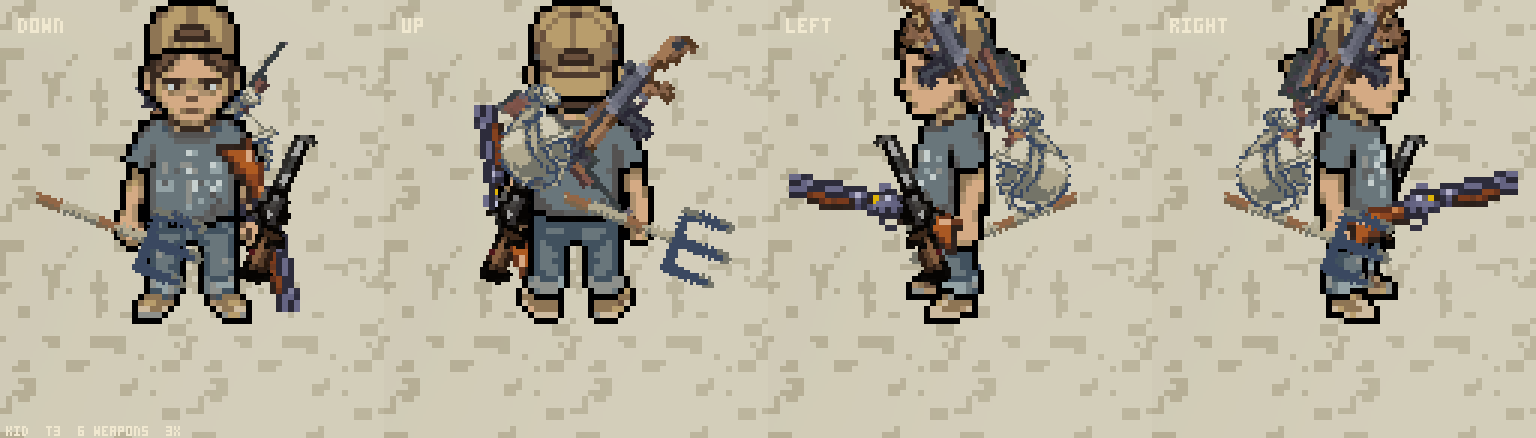
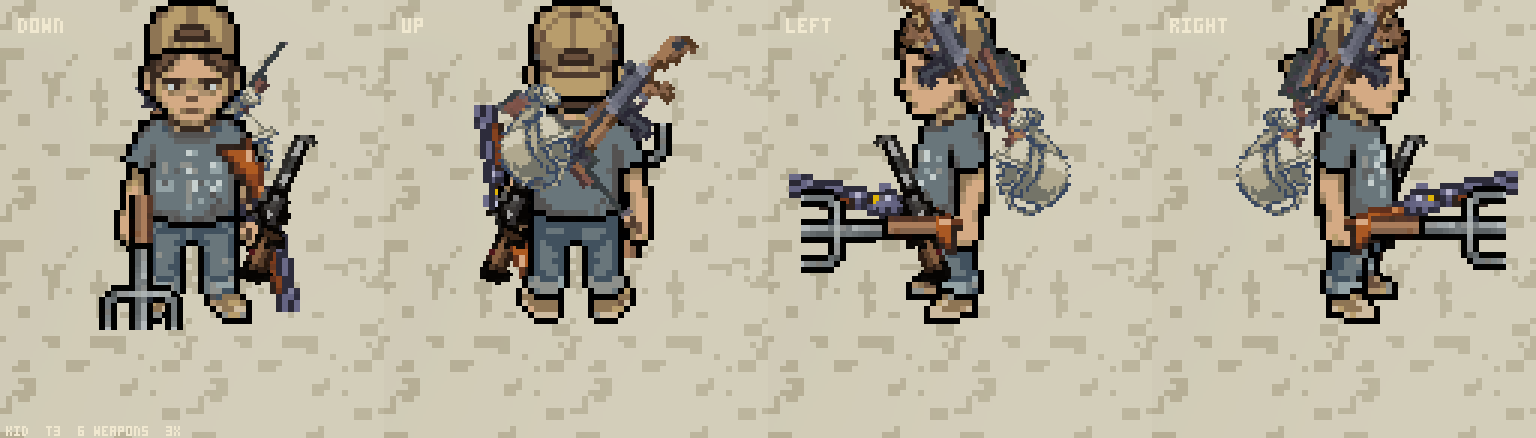
The pitchfork is held, always: an offhand anchor on every class
Second playtest (The Widow): the fork snapped between her hands and a slung
diagonal on her back every time the rifle took the hand back. A weapon that
stabs where you face has no resting pose. `carryHeld` on the pitchfork,
written `offhand` by assignCarrySlots before any other rule; isHeldSlot()
is the one answer both painters use. The Hand's dead classSlot retired.
Six facings sheets regenerated; two tests; 266 green. NOTES has the idle
probe and which dial the owner's end wave moves.

diff --git a/src/content/index.ts b/src/content/index.ts
@@ -723,7 +723,7 @@ export const ALL_ENEMY_IDS = Object.keys(ENEMIES)
  * No weapon names them and the assignment loop cannot reach them.
  */
 export type CarrySlot =
-  | 'hand' | 'back' | 'backX' | 'shoulder' | 'hipR' | 'hipL' | 'beltR' | 'beltL'
+  | 'hand' | 'offhand' | 'back' | 'backX' | 'shoulder' | 'hipR' | 'hipL' | 'beltR' | 'beltL'
 
 /** Where a slot sits for one facing. See tuning.json -> carry. */
 export interface CarryAnchor {
@@ -865,6 +865,40 @@ export function carryAimsOf(weaponId: string): boolean {
   return WEAPONS[weaponId]?.carryAim === true
 }
 
+/**
+ * True when the weapon is ALWAYS drawn as held: at the `hand` anchor, pointed
+ * where he faces, lunging when it fires, on every class and whatever else he
+ * owns.
+ *
+ * The pitchfork. The hand slot belongs to whichever weapon fired last, and on
+ * The Hand that is the fork often enough that it reads as his: a clear thrust
+ * left, right, up, down. Give the same fork to The Widow and her rifle takes
+ * the hand back between every jab, so the fork snapped between her hands and
+ * a slung diagonal on her back several times a second -- the owner's words
+ * were "arbitrarily spinning around". A weapon that stabs where you face has
+ * no resting pose worth drawing; it is held or it is nothing.
+ *
+ * It never competes for the hand and never claims a resting slot, so the
+ * weapon that fired last still goes to his hands beside it, and the five
+ * anchors are left to the guns. It draws at `offhand`, a second held anchor a
+ * few pixels off `hand` -- the facings sheet showed why: the tool aims every
+ * weapon along the facing, the rifle and the fork landed on the same pixels,
+ * and the rifle was simply gone under the fork. In play the rifle tracks its
+ * target, so that happens whenever the target is where she faces.
+ */
+export function carryHeldOf(weaponId: string): boolean {
+  return WEAPONS[weaponId]?.carryHeld === true
+}
+
+/**
+ * Is this anchor one he HOLDS? Held weapons aim, kick and lunge; resting ones
+ * hang at their slot's angle. Both painters ask this rather than comparing
+ * against `'hand'` themselves, so a second held anchor cannot split them.
+ */
+export function isHeldSlot(slot: CarrySlot | null | undefined): boolean {
+  return slot === 'hand' || slot === 'offhand'
+}
+
 /** Extra rotation on top of the slot's resting angle, radians. */
 export function carryAngleOf(weaponId: string): number {
   const a = WEAPONS[weaponId]?.carryAngle
@@ -1002,6 +1036,11 @@ const CARRY_MUZZLE_FALLBACK =
  *  4. `hand` is never a resting destination: it is not in `fallbackOrder` at
  *     all, so a weapon that declares `hand` and is not the active one falls to
  *     the front of the order instead of stacking on the held weapon.
+ *  0. Before any of that: a weapon that declares `carryHeld` is in his hands
+ *     ALWAYS. It is written `offhand` and skipped by every rule below -- it
+ *     does not win the hand by firing, it does not take a resting slot, and it
+ *     does not stop the last-fired weapon being held beside it. See
+ *     `carryHeldOf`.
  *
  * Six inventory slots against `hand` plus five anchors means this always fits,
  * so there is no overflow case and nothing is ever dropped.
@@ -1018,6 +1057,7 @@ export function assignCarrySlots(
   let latest = 0
   for (let i = 0; i < n; i++) {
     if (carrySlotOf(weapons[i].id, classId) === 'none') continue
+    if (carryHeldOf(weapons[i].id)) continue
     if (hand < 0 || weapons[i].firedAt > latest) {
       hand = i
       latest = weapons[i].firedAt
@@ -1027,13 +1067,17 @@ export function assignCarrySlots(
   // A bitmask rather than a scratch array: five anchors, no allocation, and
   // nothing to reset between calls.
   let taken = 0
-  for (let i = 0; i < n; i++) out[i] = null
+  for (let i = 0; i < n; i++) {
+    out[i] = carryHeldOf(weapons[i].id) && carrySlotOf(weapons[i].id, classId) !== 'none'
+      ? 'offhand'
+      : null
+  }
 
   // The class's own postures claim their slots first. See rule 2.
   const prefs = classId ? CARRY.classSlot?.[classId] : undefined
   if (prefs) {
     for (let i = 0; i < n; i++) {
-      if (i === hand || carrySlotOf(weapons[i].id) === 'none') continue
+      if (i === hand || out[i] || carrySlotOf(weapons[i].id) === 'none') continue
       const pref = prefs[weapons[i].id]
       if (!pref) continue
       const idx = order.indexOf(pref)

diff --git a/tests/world.test.ts b/tests/world.test.ts
@@ -513,3 +513,48 @@ describe('the aura weapon', () => {
     expect(out[1]).toBe('hand')
   })
 })
+
+describe('the pitchfork is held, always', () => {
+  // The owner, playing The Widow: her rifle took the hand back between every
+  // jab, so the fork snapped between her hands and a slung diagonal on her
+  // back several times a second. A weapon that stabs where you face has no
+  // resting pose; `carryHeld` keeps it in the hand on every class.
+  it('stays in the hand when the rifle fired last, and the rifle is held beside it', async () => {
+    const { assignCarrySlots } = await import('../src/content')
+    const w = new World(14, 'widow')
+    w.player.addWeapon('pitchfork')
+    const rifle = w.player.weapons[0]
+    const fork = w.player.weapons[1]
+    expect(rifle.id).toBe('varmintRifle')
+    expect(fork.id).toBe('pitchfork')
+    const out: (string | null)[] = [null, null, null, null, null, null, null, null]
+
+    fork.firedAt = 10
+    rifle.firedAt = 20
+    assignCarrySlots(w.player.weapons, out as never, 'widow')
+    expect(out[0]).toBe('hand')
+    expect(out[1]).toBe('offhand')
+
+    // The other way round, the same answer: firing last no longer matters to it.
+    fork.firedAt = 30
+    assignCarrySlots(w.player.weapons, out as never, 'widow')
+    expect(out[0]).toBe('hand')
+    expect(out[1]).toBe('offhand')
+  })
+
+  it('takes no resting slot, so the five anchors are left to the guns', async () => {
+    const { assignCarrySlots } = await import('../src/content')
+    const w = new World(14, 'hand')
+    for (const id of ['scattergun', 'varmintRifle', 'drumGun', 'harpoon', 'chemSprayer']) w.player.addWeapon(id)
+    const out: (string | null)[] = [null, null, null, null, null, null, null, null]
+    w.player.weapons[1].firedAt = 5
+    assignCarrySlots(w.player.weapons, out as never, 'hand')
+    expect(out[0]).toBe('offhand')
+    expect(out[1]).toBe('hand')
+    const rest = out.slice(2, 6)
+    expect(rest).not.toContain('hand')
+    expect(rest).not.toContain('offhand')
+    expect(rest).not.toContain(null)
+    expect(new Set(rest).size).toBe(4)
+  })
+})

diff --git a/src/render/renderer.ts b/src/render/renderer.ts
@@ -17,6 +17,7 @@ import type { World } from '../sim/world'
 import { Camera } from './camera'
 import {
   CARRY, ENEMIES, ITEMS, NODES, TUNING, WEAPONS, assignCarrySlots, carryAimsOf, carryAngleOf,
+  isHeldSlot,
   carryAnchorOf, carryHeightOf, carryPivotOf, carrySpriteOf, carryThrustOf, decalKindsFor,
   itemCardSprite, projectileScaleFor, swingStyleOf, thrustPhase,
   sceneryKindsFor, type CarrySlot, type MapBoundary, type MapTerrain,
@@ -1945,7 +1946,7 @@ export class Renderer {
       // Recoil kicks the weapon back along its own aim as it fires. Only the
       // held weapon kicks: a rifle on his back does not move when the pitchfork
       // swings, and it used to.
-      const held = anchorSlot === 'hand'
+      const held = isHeldSlot(anchorSlot)
       const kick = held && slot.recoil > 0
         ? (slot.recoil / cfg.weaponRecoilSeconds) * cfg.weaponRecoilPixels
         : 0

diff --git a/tools/draw-world.ts b/tools/draw-world.ts
@@ -16,6 +16,7 @@ import { readAtlas, type AtlasFrame } from './atlas-read.ts'
 import { Rng } from '../src/core/rng.ts'
 import {
   CARRY, ITEMS, TUNING, WEAPONS, assignCarrySlots, carryAimsOf, carryAngleOf, carryAnchorOf,
+  isHeldSlot,
   carryHeightOf, carryPivotOf, carrySpriteOf, carryThrustOf, decalKindsFor, projectileScaleFor,
   sceneryKindsFor, swingStyleOf, thrustPhase,
   type CarrySlot, type MapBoundary,
@@ -1080,7 +1081,7 @@ export class WorldPainter {
         ?? frames[`weapon.${slot.id}`]
       if (!f) continue
 
-      const held = anchorSlot === 'hand'
+      const held = isHeldSlot(anchorSlot)
       const kick = held && slot.recoil > 0
         ? (slot.recoil / cfg.weaponRecoilSeconds) * cfg.weaponRecoilPixels
         : 0

diff --git a/NOTES.md b/NOTES.md
@@ -4,6 +4,95 @@ Handoff back to the next design pass, per CLAUDE.md. Latest session first.
 
 ---
 
+# Session 24 — the second playtest, and the fork stays in her hands
+
+## What the owner reported (The Widow, on the live site, 2026-09-05)
+
+"MUCH better." Still overpowered enough to stand still and never be touched
+from about wave 5 on, but a long way from the level-22 idle run that started
+the retune. His end wave is not in the report yet; that number is what the
+next tuning pass turns on. The dial has not moved this session — the owner's
+rule is to tune from his play, not from the bots, and the bots say only that
+the WIDOW IDLE BOT dies at median wave 9 (`npm run probe -- 24 idle`, all
+six classes, 24 seeds, unchanged tree):
+
+    class       pilot      cleared  median  min  max
+    hand        idle        0/24     10    6   15
+    hand        idle-buy    4/24     12    6   26
+    kid         idle        1/24      9    3   26
+    kid         idle-buy    2/24   10.5    3   26
+    widow       idle        0/24      9    4   15
+    widow       idle-buy    2/24      9    4   26
+    vet         idle        0/24    7.5    2   18
+    vet         idle-buy    0/24      8    2   14
+    agronomist  idle        2/24    9.5    3   26
+    agronomist  idle-buy    1/24     12    3   26
+    drifter     idle        0/24     11    2   22
+    drifter     idle-buy    4/24   11.5    2   26
+
+So the gap between "the idle bot dies at 9" and "a human standing still is
+untouchable from 5" is card choice: `idle-buy` takes the first card it can
+afford, the owner takes the right one. When his end wave arrives: if he
+cleared or got past ~18 standing still, the idle-buy cap in
+`tests/run.test.ts` is the bar to tighten and `xp.exponent` in `waves.json`
+the dial; if he died in the teens, the opening is right and only the
+mid-game (waves 5-12) wants steeper `waveHpScalar` — the probe's 4th argument
+sweeps `hplin`/`hpq` without editing JSON.
+
+## The pitchfork, on a class whose primary is a gun
+
+The owner's second note: on The Hand the fork is his, a clear thrust left,
+right, up, down. On The Widow it "comes in diagonal so it looks like it's
+sort of on her back arbitrarily spinning around". He asked for the Hand's
+look on every class that can hold a fork.
+
+**Cause.** The `hand` anchor belongs to whichever weapon fired last
+(`slot.firedAt`). On The Hand the fork fires often enough to hold it. On The
+Widow the rifle takes the hand back between every jab, so the fork snapped
+between her hands (aimed, thrusting) and a slung diagonal on her back several
+times a second. Not a bad angle — a weapon with no business having a resting
+pose at all.
+
+**Fix, in content, so both painters inherit it.** `carryHeld: true` on the
+pitchfork in `weapons.json`. `assignCarrySlots` writes such a weapon
+`offhand` before any other rule runs: it does not win the hand by firing, it
+takes no resting slot, and it does not stop the last-fired weapon being held
+beside it. `isHeldSlot()` is the one place that says which anchors are held
+(aim, kick, lunge); the renderer and `tools/draw-world.ts` both call it
+rather than comparing against `'hand'` themselves.
+
+**Why a second anchor and not `hand` itself.** The first cut put the fork at
+`hand`, and the facings sheet showed the rifle GONE: the tool aims every
+weapon along the facing, so rifle and fork landed on the same pixels and the
+fork drew last. In play the rifle tracks its target, so that happens whenever
+the target is where she faces, which for the thing she is walking toward is
+often. `offhand` in `tuning.json` is a few pixels off `hand` on the far side
+and a rung lower — rifle at the shoulder, fork at the waist — with `byClass`
+rows for The Hand, The Kid and The Widow matching their `hand` overrides. Not
+in `fallbackOrder`, named by nothing else, so no gun can rest there.
+
+**Retired with it.** `classSlot.hand.pitchfork: "back"` — the fork never
+rests now, so the entry was dead. The `_handNote` on the back slot says so.
+The Hand's back override itself stays; it is for the guns he picks up.
+
+**Verified.** `npm run facings` for The Widow (rifle held, fork alongside;
+full kit), The Hand (fork alone), The Kid (scattergun and fork): the fork
+points where they face on all four facings, the guns are visible beside it.
+The six sheets under `docs/progress/carry-facings-*.png` are regenerated.
+Two tests in `tests/world.test.ts`: the fork is `offhand` whichever of it or
+the rifle fired last, and with six weapons the five resting anchors go to
+the five guns, none of them `hand` or `offhand`.
+
+**Known, not done.** Facing UP, the fork is drawn behind the body like
+everything at `hand` is, so only the tines show above the head — the same as
+The Hand before this session, which the owner called great. The Kid's fork
+facing DOWN runs to the ground at her feet; she is 40px tall and the fork is
+31. If either reads wrong in play, `offhand.byClass` is the place and no code
+moves.
+
+---
+
+
 # RESOLVED — the 2fps was a backgrounded window; here is what was measured on the way
 
 **Read this before anything else in the performance line.** The owner reports
@@ -173,8 +262,10 @@ is in flight. Run `git fetch && git status` anyway.
 
 ### What the next session does first
 
-- **Ask the owner how the second playtest went** — a class other than the
-  Widow. Every number is bots plus one evening of his play. If the opening is
+- **Get the owner's END WAVE from the second playtest** — session 24 has his
+  verdict on The Widow ("MUCH better", still untouchable standing still from
+  about wave 5) but not where the run ended; see the session 24 entry for which
+  dial each answer moves. Every number is bots plus two evenings of his play. If the opening is
   now too hard, `xp.exponent` in `waves.json` is the one dial; if standing still
   still wins, the idle pilot's caps in `tests/run.test.ts` are the bar to
   tighten and `classes.json` the place.
